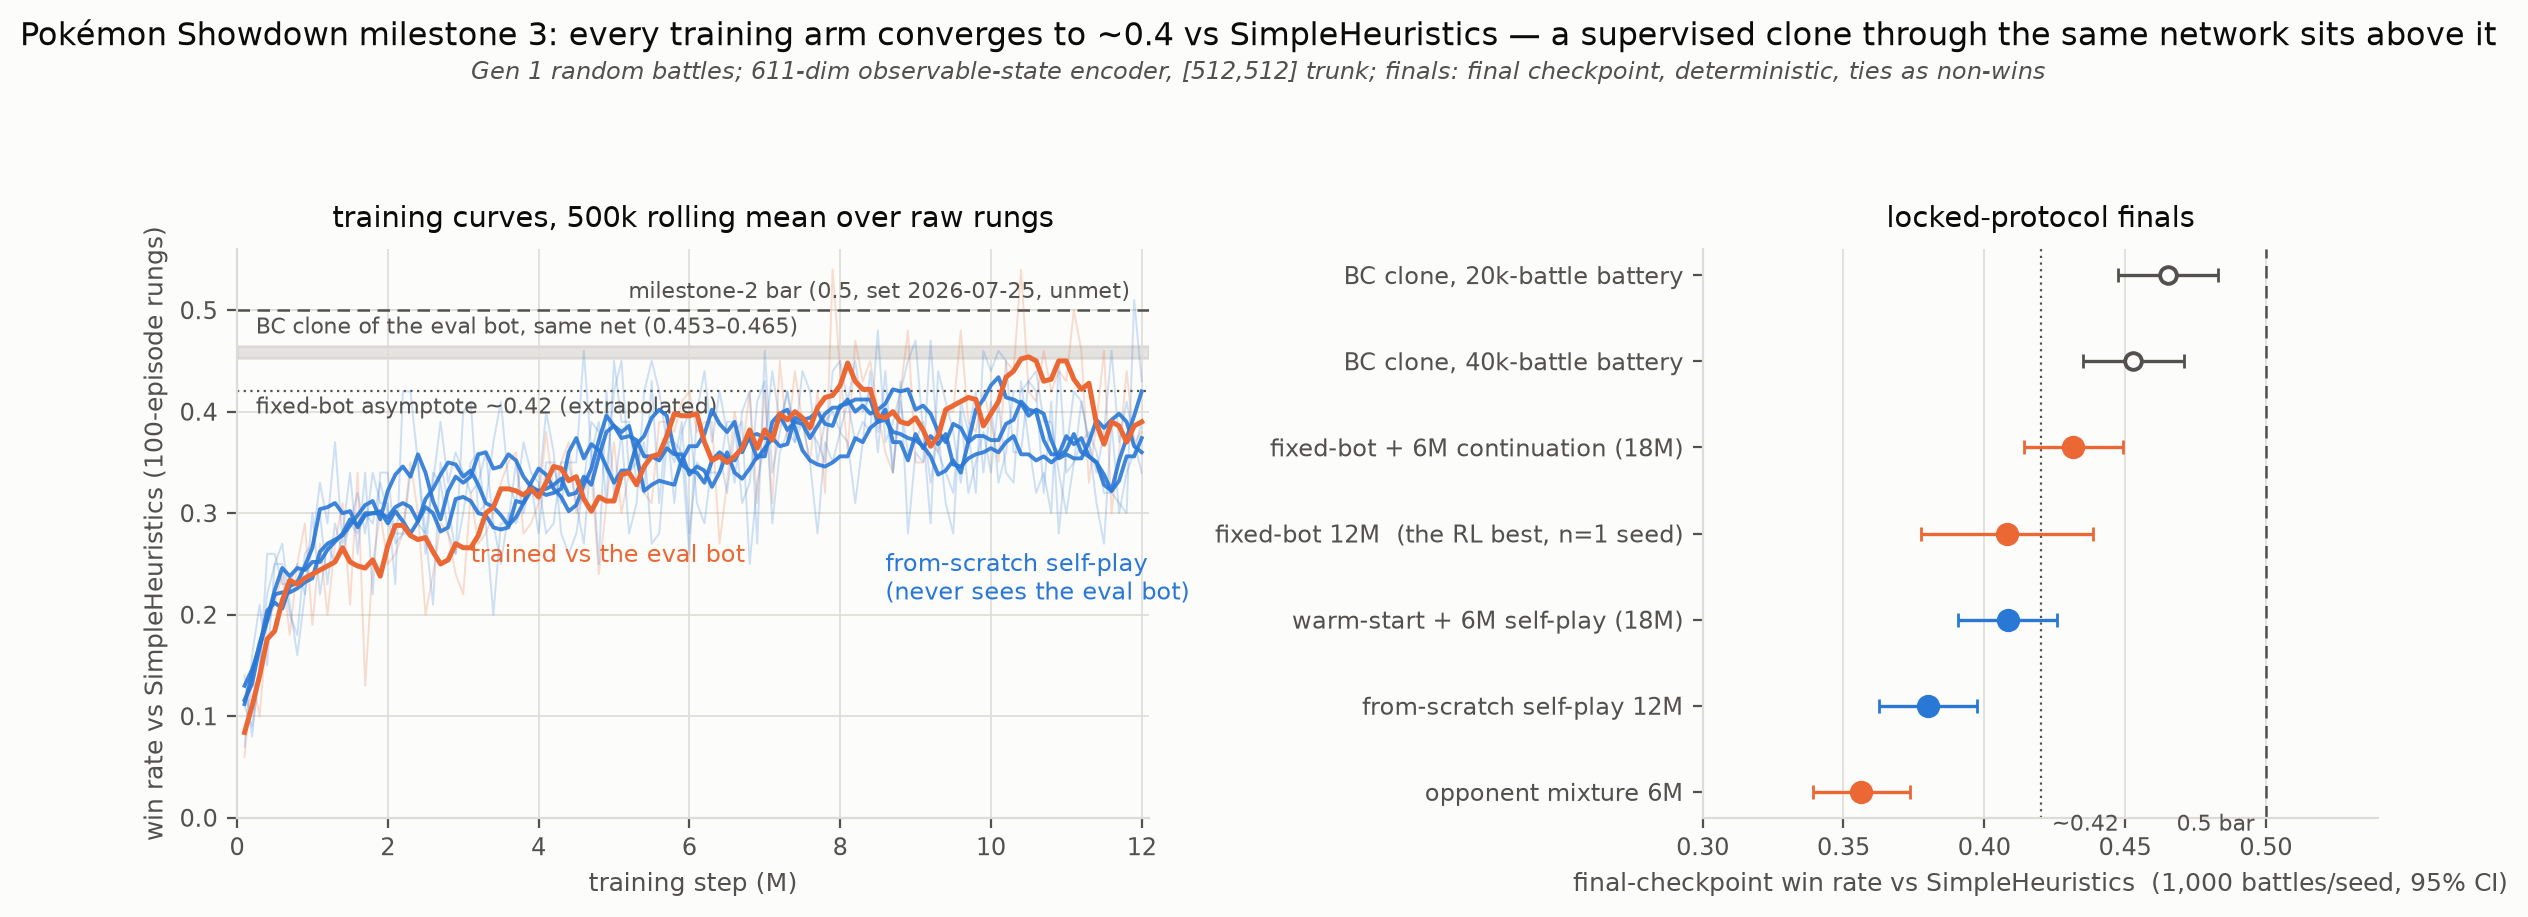
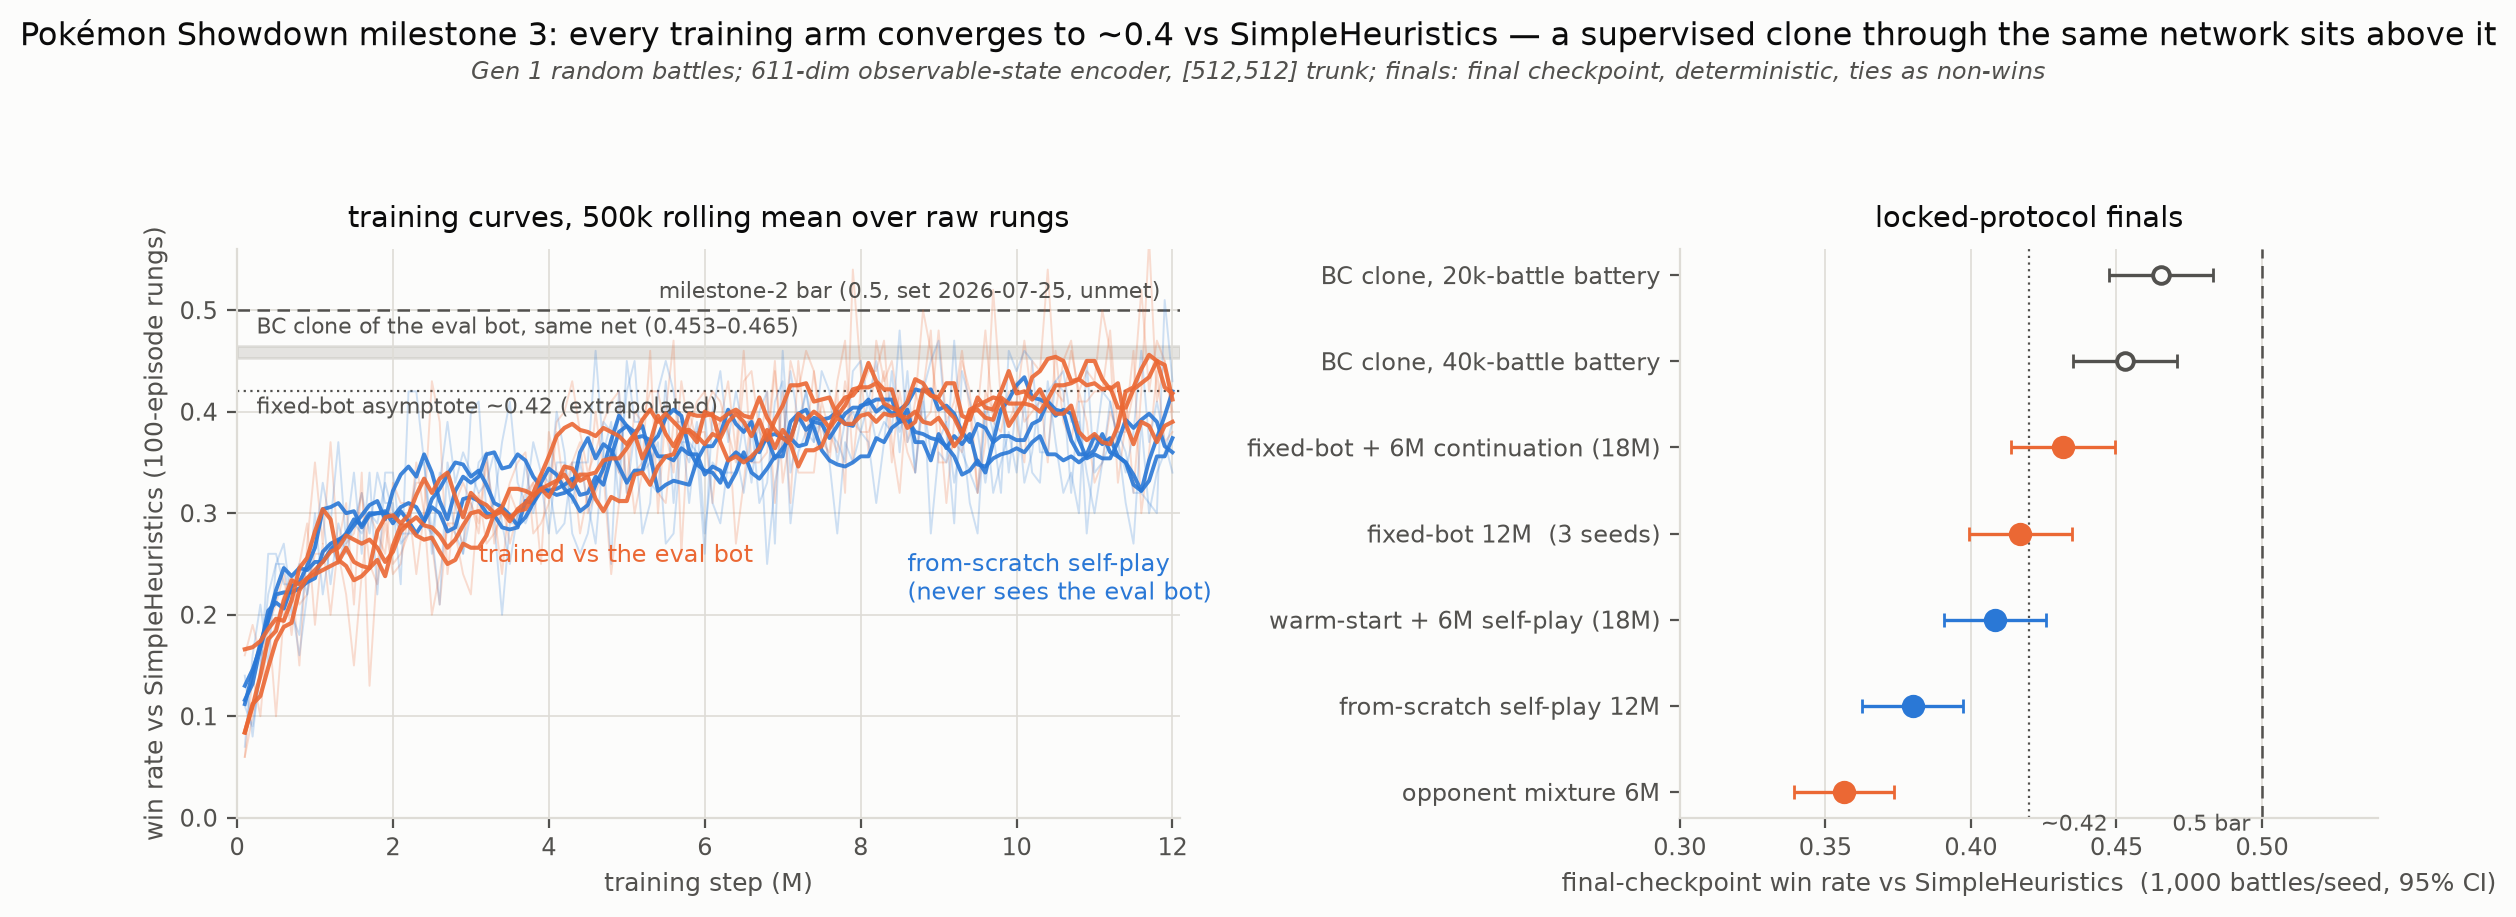
heur_512 replication: wedge RESOLVED at 3 seeds — pooled 0.417 +/- 0.009, clone gap +0.036 (z=2.8); README amended per the pre-registered rule
s1 0.411 / s2 0.432 overnight, clean stamps, finals in-script. The n=1
caveat on the lineage's key number is retired; figure regenerated with all
three fixed-bot seeds and a pooled finals row.

diff --git a/scripts/make_showdown_figure.py b/scripts/make_showdown_figure.py
@@ -1,9 +1,10 @@
 """Phase 5 milestone-3 figure: every training arm converges to ~0.4 vs
 SimpleHeuristics, and a supervised clone through the same network sits above.
 
-Left panel: eval/win_rate vs SimpleHeuristics over training — the fixed-bot
-[512,512] run (the lineage every other arm descends from or is compared to)
-and the three from-scratch self-play seeds, which never see the eval bot in
+Left panel: eval/win_rate vs SimpleHeuristics over training — the three
+fixed-bot [512,512] seeds (the lineage every other arm descends from or is
+compared to; s1/s2 are the 2026-08-02 pre-registered replication) and the
+three from-scratch self-play seeds, which never see the eval bot in
 training. Rungs are 100-episode estimates (se ≈ 0.05), so each trace is a
 5-rung (500k-step) centered rolling mean with the raw rungs behind it at low
 alpha — smoothing disclosed here and in the README caption. The 0.5
@@ -84,9 +85,10 @@ left.axhline(BAR, color=INK2, lw=0.9, ls=(0, (5, 3)), zorder=2)
 left.axhline(ASYMPTOTE, color=INK2, lw=0.8, ls=(0, (1, 2)), zorder=2)
 left.axhspan(*CLONE_BAND, color="#b9b7b0", alpha=0.35, zorder=1)
 
-steps, wins = rungs("showdown_heur_512_s0")
-left.plot(steps / 1e6, wins, color=FIXEDBOT_C, lw=0.7, alpha=0.22, zorder=3)
-left.plot(steps / 1e6, rolling(wins), color=FIXEDBOT_C, lw=1.8, zorder=5)
+for seed in (0, 1, 2):
+    steps, wins = rungs(f"showdown_heur_512_s{seed}")
+    left.plot(steps / 1e6, wins, color=FIXEDBOT_C, lw=0.7, alpha=0.22, zorder=3)
+    left.plot(steps / 1e6, rolling(wins), color=FIXEDBOT_C, lw=1.5, alpha=0.9, zorder=5)
 for seed in (0, 1, 2):
     steps, wins = rungs(f"showdown_scratch12m_s{seed}")
     left.plot(steps / 1e6, wins, color=SELFPLAY_C, lw=0.7, alpha=0.22, zorder=3)
@@ -116,7 +118,7 @@ ROWS = [
     ("BC clone, 20k-battle battery", B3.format(a="bc_p4_512"), None),
     ("BC clone, 40k-battle battery", B3.format(a="bc_p4_512_40k"), None),
     ("fixed-bot + 6M continuation (18M)", S3.format(a="cont6m", f="final_eval_heur_1000"), FIXEDBOT_C),
-    ("fixed-bot 12M  (the RL best, n=1 seed)", "runs/showdown_heur_512_s0/final_eval_heur_1000.json", FIXEDBOT_C),
+    ("fixed-bot 12M  (3 seeds)", S3.format(a="heur_512", f="final_eval_heur_1000"), FIXEDBOT_C),
     ("warm-start + 6M self-play (18M)", S3.format(a="sp6m", f="final_eval_heur_1000"), SELFPLAY_C),
     ("from-scratch self-play 12M", S3.format(a="scratch12m", f="final_eval_heur_1000"), SELFPLAY_C),
     ("opponent mixture 6M", S3.format(a="mix512", f="final_eval_heur_1000"), FIXEDBOT_C),

diff --git a/README.md b/README.md
@@ -48,7 +48,7 @@ python -m rl.train --config configs/<run>.yaml
 | 2 | PPO (GAE, clipped objective, entropy bonus, vectorized rollouts) | **done, both tracks** — beats DQN on 3 of 5 MinAtar games; reproduces the reference on MuJoCo locomotion (see Results) |
 | 3 | SAC (twin critics, reparameterized actor, auto-tuned entropy temperature) | **done** — beats PPO on all three MuJoCo envs per sample and loses to it per minute; validated against published SAC (see Results) |
 | 4 | Connect 4 self-play on-ramp: opponent pool, checkpoint Elo harness | **done** — naive self-play forgets (no proxy overlap vs the pool arm), measured on an exact-oracle instrument stack (see Results) |
-| 5 | Capstone: Pokémon Showdown Gen 1 via PPO + self-play | **in progress** — milestone 1 passed; milestone 2 (0.5 vs SimpleHeuristics) not passed, best 0.408; milestone-3 self-play campaign complete, and the ~0.4 plateau is shown to be training-side (see Results) |
+| 5 | Capstone: Pokémon Showdown Gen 1 via PPO + self-play | **in progress** — milestone 1 passed; milestone 2 (0.5 vs SimpleHeuristics) not passed, best 0.417 pooled over 3 seeds; milestone-3 self-play campaign complete, and the ~0.4 plateau is shown to be training-side (see Results) |
 
 ## Results — Phase 1: DQN on MinAtar
 
@@ -550,16 +550,17 @@ eval seeds disjoint from training's, deterministic policy, ties counted as
 non-wins. Throughout this section ± is one standard error of a battle-level
 proportion unless labelled otherwise; "pooled" is wins/total over all seeds'
 battles and carries no seed variance, so seed spread is quoted where a claim
-lives at the seed level. Milestone 1–2 headline numbers are single-seed;
-every milestone-3 number is 3-seed.
+lives at the seed level. The milestone-1 headline is single-seed; every
+other headline number is 3-seed (the fixed-bot 12M cell was replicated to
+3 seeds on 2026-08-02 under a pre-registered read).
 
 | Milestone | Result | Status |
 |---|---|---|
 | 1 — beat `MaxBasePowerPlayer` | **0.663 ± 0.029** (95% CI, n=1 seed) at 2M steps | **passed** |
-| 2 — beat `SimpleHeuristicsPlayer` (0.5 bar) | best **0.408 ± 0.016** (12M, [512,512], n=1 seed); a 6M continuation reached 0.432 pooled but reads as specialization (below) | **not passed** |
+| 2 — beat `SimpleHeuristicsPlayer` (0.5 bar) | best **0.417 ± 0.009** pooled, 3 seeds (0.408/0.411/0.432, spread 0.024; 12M, [512,512]); a 6M continuation reached 0.432 pooled but reads as specialization (below) | **not passed** |
 | 3 — self-play with a historical-checkpoint opponent pool | from-scratch self-play **learns**: 0.380 pooled vs SH; 0.484 head-to-head vs the equal-budget fixed-bot policy (a resolvable deficit, z ≈ −2.5) | **complete** — no win-rate bar; the deliverables were the loop and its pre-registered reads |
 
-### Milestone 2: four levers to 0.408
+### Milestone 2: four levers to ~0.42
 
 A search path, not four confirmatory tests — each lever was chosen after
 reading the previous one, two of the four rows are single-seed, and the
@@ -570,7 +571,7 @@ estimates:
 |---|---|---|
 | Real encoder (10 → 611 dims) | ~0.26 (500-battle probe of the milestone-1 policy) → 0.292 ± 0.014 at 2M; the cross-protocol delta is not itself resolvable (z ≈ 1.2) | credited a priori — the placeholder encoder carried no HP/status/boost information at all, and the curve stopped plateauing |
 | Budget (2M → 6M at [64,64]) | 0.292 → 0.358 ± 0.015, flat from ~2.5M on at this width | credited, exhausted |
-| Capacity ([64,64] → [512,512]) | matched-budget 4–6M in-training bands 0.346 vs 0.316, and the shape: [64,64] flat from 2.5M, [512,512] still climbing at 12M (final 0.408 ± 0.016) | credited — biggest single lever; the 0.358 → 0.408 endpoint pairing confounds capacity with budget, so the attribution rests on the band and the shape |
+| Capacity ([64,64] → [512,512]) | matched-budget 4–6M in-training bands 0.346 vs 0.316, and the shape: [64,64] flat from 2.5M, [512,512] still climbing at 12M (s0 final 0.408; later replicated ×3 — pooled 0.417 ± 0.009) | credited — biggest single lever; the 0.358 → 0.408 endpoint pairing confounds capacity with budget, so the attribution rests on the band and the shape |
 | Distribution (70/20/10 SH/max-power/random mixture, 3 seeds, 6M) | pre-registered in-training read fired "at/below"; locked-eval delta +0.032 ± 0.017 (z ≈ 1.9, against a single-seed control likely sitting in an eval dip) | not credited — at most a nudge, nowhere near the ~0.1 gap to the bar |
 
 The [512,512] curve's per-2M return gains decay geometrically
@@ -616,7 +617,8 @@ are 100 episodes each, se ≈ 0.05; no claim here rests on a single rung.)
   reporting is that this policy never saw SH and gives up only that much to
   policies trained on it.
 - **The plateau.** Two independent training regimes land in a 0.38–0.41
-  band (from-scratch 0.380 ± 0.009; fixed-bot final 0.408 ± 0.016), with
+  band (from-scratch 0.380 ± 0.009; fixed-bot 12M pooled 0.417 ± 0.009 over
+  3 seeds, spread 0.024), with
   from-scratch rungs flattening into 0.36–0.40 after ~8M, consistent with
   the ≈ 0.42 projection. (Warm-started self-play finishing at 0.408 is not
   independent evidence — a null returns its own initialization.)
@@ -647,8 +649,11 @@ generation (0.96σ apart). Against SH's own mirror baseline — the recorder's
 win rate over the collection battles, 0.489/0.486; ties-as-non-wins is why
 a mirror sits below 0.5 — the clone pays a real ~0.03 cloning tax (≈ 4σ):
 it is a demonstrably *imperfect* clone, and what is demonstrated is 0.453,
-not 0.49. That is enough: 0.453 sits **+0.045 above the best fixed-bot
-policy** (z ≈ 2.5, 95% CI +0.01 to +0.08). Capacity was milestone 2's
+not 0.49. That is enough: 0.453 sits **+0.036 above the 12M fixed-bot
+pooled final** (0.417 ± 0.009, 3 seeds; z ≈ 2.8, 95% CI +0.011 to +0.061)
+— the pre-registered seed replication tightened the RL side from one seed
+to three and the wedge sharpened rather than shrank, and even the best
+fixed-bot seed (0.432) sits below the clone. Capacity was milestone 2's
 biggest lever and the obvious next dose — a wider trunk — was never run;
 the clone is why: this trunk already represents a 0.453 policy, so capacity
 is not what binds.
@@ -691,7 +696,8 @@ Findings worth the compute:
 Caveats stated rather than buried:
 
 - **Milestone 2 is not passed.** The bar was set on 2026-07-25 and has not
-  moved. Best measured is 0.408 (single-seed) / 0.432 (pooled, but
+  moved. Best measured is 0.417 ± 0.009 pooled fixed-bot (best seed 0.432) /
+  0.432 (the 18M continuation, but
   specialization per the head-to-head).
 - **The from-scratch result is a 6%-budget result.** Huang & Lee's
   from-scratch PPO self-play used ~192M learner transitions on Gen 7 random
@@ -711,7 +717,7 @@ Caveats stated rather than buried:
   head-to-head above averages both orientations, which cancels it; any
   single-orientation number in this domain is biased by ~2 points.
 
-The phase so far is ~115M environment steps across ~25 runs — about 22
+The phase so far is ~140M environment steps across ~27 runs — about 27
 hours of laptop-CPU wall clock, at most three concurrent runs against one
 local Showdown server, no GPU. Every run directory is self-describing
 (resolved config, git SHA, W&B history, checkpoints); the figure is

diff --git a/STATUS.md b/STATUS.md
@@ -18,27 +18,24 @@ conflicts with the newest session-log entry, the log wins — say so and fix thi
   chased under this recipe class — bar stays unmet and unmoved; 16×-budget from-scratch is
   untested-not-excluded, deferred on cost; (4) BC-warm-start deferred to its own
   pre-registered design session. Full wording in the 2026-08-02 write-up log entry.
-- Milestone ladder: M1 PASSED 0.663 · M2 NOT passed (best 0.408 n=1; 0.432 pooled reads as
-  specialization) · M3 complete and shipped.
-- Git: 4 commits ahead of origin after this session (P4 pre-reg, P4 verdict, write-up,
-  docs). Standing rule: ask the maintainer before any push — and the push now publishes
-  the milestone-3 section.
+- Milestone ladder: M1 PASSED 0.663 · M2 NOT passed (fixed-bot 12M pooled 0.417 ± 0.009,
+  3 seeds, best seed 0.432; the 18M continuation's 0.432 reads as specialization) · M3
+  complete and shipped.
+- Git: 6 commits ahead of origin. Standing rule: ask the maintainer before any push — and
+  the push now publishes the milestone-3 section.
 
-- **Both write-up hardening steps taken (2026-08-02 later entry):** clone final-vs-best
-  asymmetry measured a non-issue (all 12 evals within noise; README parenthetical added);
-  `heur_512_s{1,2}` 12M replication PRE-REGISTERED and handed over for overnight — the
-  3-seed pooled replaces the n=1 0.408 in the wedge, retention rule locked (resolved iff
-  0.4530 − p_RL ≥ 2·se_diff ≈ 0.026).
+- **Both hardening steps CLOSED (2026-08-02 later + overnight entries):** clone
+  final-vs-best measured a non-issue (12 evals, all within noise), and the heur_512
+  replication ran overnight — s1 0.411 / s2 0.432, pooled p_RL 0.417 ± 0.009 (spread
+  0.024). Retention rule fired RESOLVED: clone − p_RL = +0.036, z = 2.81. README amended
+  per the locked rule (wedge, milestone table, figure now 3 fixed-bot seeds); the n=1
+  caveat on the lineage's key number is retired.
 
 ## Next, in order
 
-1. **Overnight (maintainer's terminal): `heur512_seeds.sh`** — heur_512 s1+s2, 12M each
-   2-wide, finals included (~5–6 h). Needs server up + the already-clean tree.
-2. **Morning read**: pre-registered rule from the 2026-08-02 later entry; amend the README
-   wedge sentence + milestone table with the 3-seed number either way.
-3. Push decision (maintainer) — publishes the milestone-3 section.
-4. P3 team-luck variance decomposition (~20 min, analysis appendix).
-5. P5 rollout_steps 512 — pre-registration first, then run; BC-warm-start design session
+1. Push decision (maintainer) — publishes the milestone-3 section.
+2. P3 team-luck variance decomposition (~20 min, analysis appendix).
+3. P5 rollout_steps 512 — pre-registration first, then run; BC-warm-start design session
    behind it.
 
 ## Watch items

diff --git a/SESSION_LOGS.md b/SESSION_LOGS.md
@@ -1392,6 +1392,31 @@ order; earlier phases follow below.
   session*: the pre-registered read from disk, README amendment per the rule, then P3 and the P5
   pre-registration.
 
+- 2026-08-02 (overnight close-out: heur_512 replication COMPLETE — the wedge survives its
+  pre-registered test and SHARPENS; README amended per the locked rule) — **Both runs trained clean
+  in the maintainer's terminal (launched 18:29:43, stamped `b87f6a0` / `git_dirty: false`, ~685
+  steps/s 2-wide, done ~23:20; the script ran both locked finals itself; 30-min read-only
+  monitoring loop reported throughout, no interventions).** *The pre-registered read, taken at
+  23:30*: finals s1 411/1000 = 0.411 (ties 17), s2 432/1000 = 0.432 (ties 18); pooled with s0's
+  408/1000: **p_RL = 1251/3000 = 0.4170 ± 0.0090, seed-std 0.0131, spread 0.024** — the fixed-bot
+  12M cell is tight (nothing like sp6m's 0.061 continuation spread), s0 was the LOW seed, and the
+  n=1 caveat on the lineage's key number is retired. **Retention rule fired RESOLVED: clone 0.4530
+  − 0.4170 = +0.0360 ≥ 0.0256 (2·se_diff), z = 2.81** — the wedge narrowed in points (0.045 →
+  0.036) and sharpened in resolution (z 2.5 → 2.8), and even the best fixed-bot seed (0.432) sits
+  below the clone; the training-side verdict stands on a 3-seed RL base. Side notes: s2's 0.432
+  equals the cont6m pooled endpoint — the 12M seed distribution reaches the continuation's value,
+  consistent with the ~0.42 projection; the turn-1000 auto-tie warning appeared once in s1's log
+  but eval ties stayed 1.7–2.1% (stall long-tail, rare as before). *README amended per the locked
+  rule (9 edits)*: status row, protocol paragraph (only M1 is single-seed now), milestone-2 table
+  cell (0.417 ± 0.009 pooled, per-seed listed), ledger header "four levers to ~0.42", capacity row
+  (s0 final + replication), plateau bullet (0.38–0.42 band), the wedge sentence (+0.036, z ≈ 2.8,
+  CI +0.011..+0.061, replication named), the milestone-2 caveat, compute line (~140M steps, ~27 h);
+  figure regenerated with all three fixed-bot seeds and a pooled 3-seed finals row
+  (`runs/showdown_heur_512_s{1,2}/history.csv` extracted for it). Artifacts:
+  runs/showdown_heur_512_s{1,2}/ (full ckpt ladders, final_eval_heur_1000.json each, offline wandb).
+  *Next*: push decision (maintainer), P3 (~20 min analysis), P5 pre-registration, BC-warm-start
+  design session behind them.
+
 - 2026-07-21 — Repo scaffolded: structure, README, CLAUDE.md, `.gitignore`, pinned `pyproject.toml`.
   Initial commit.
 - 2026-07-22 — Pushed to GitHub. Created `deep-rl` conda env; installed pinned deps and smoke-tested
